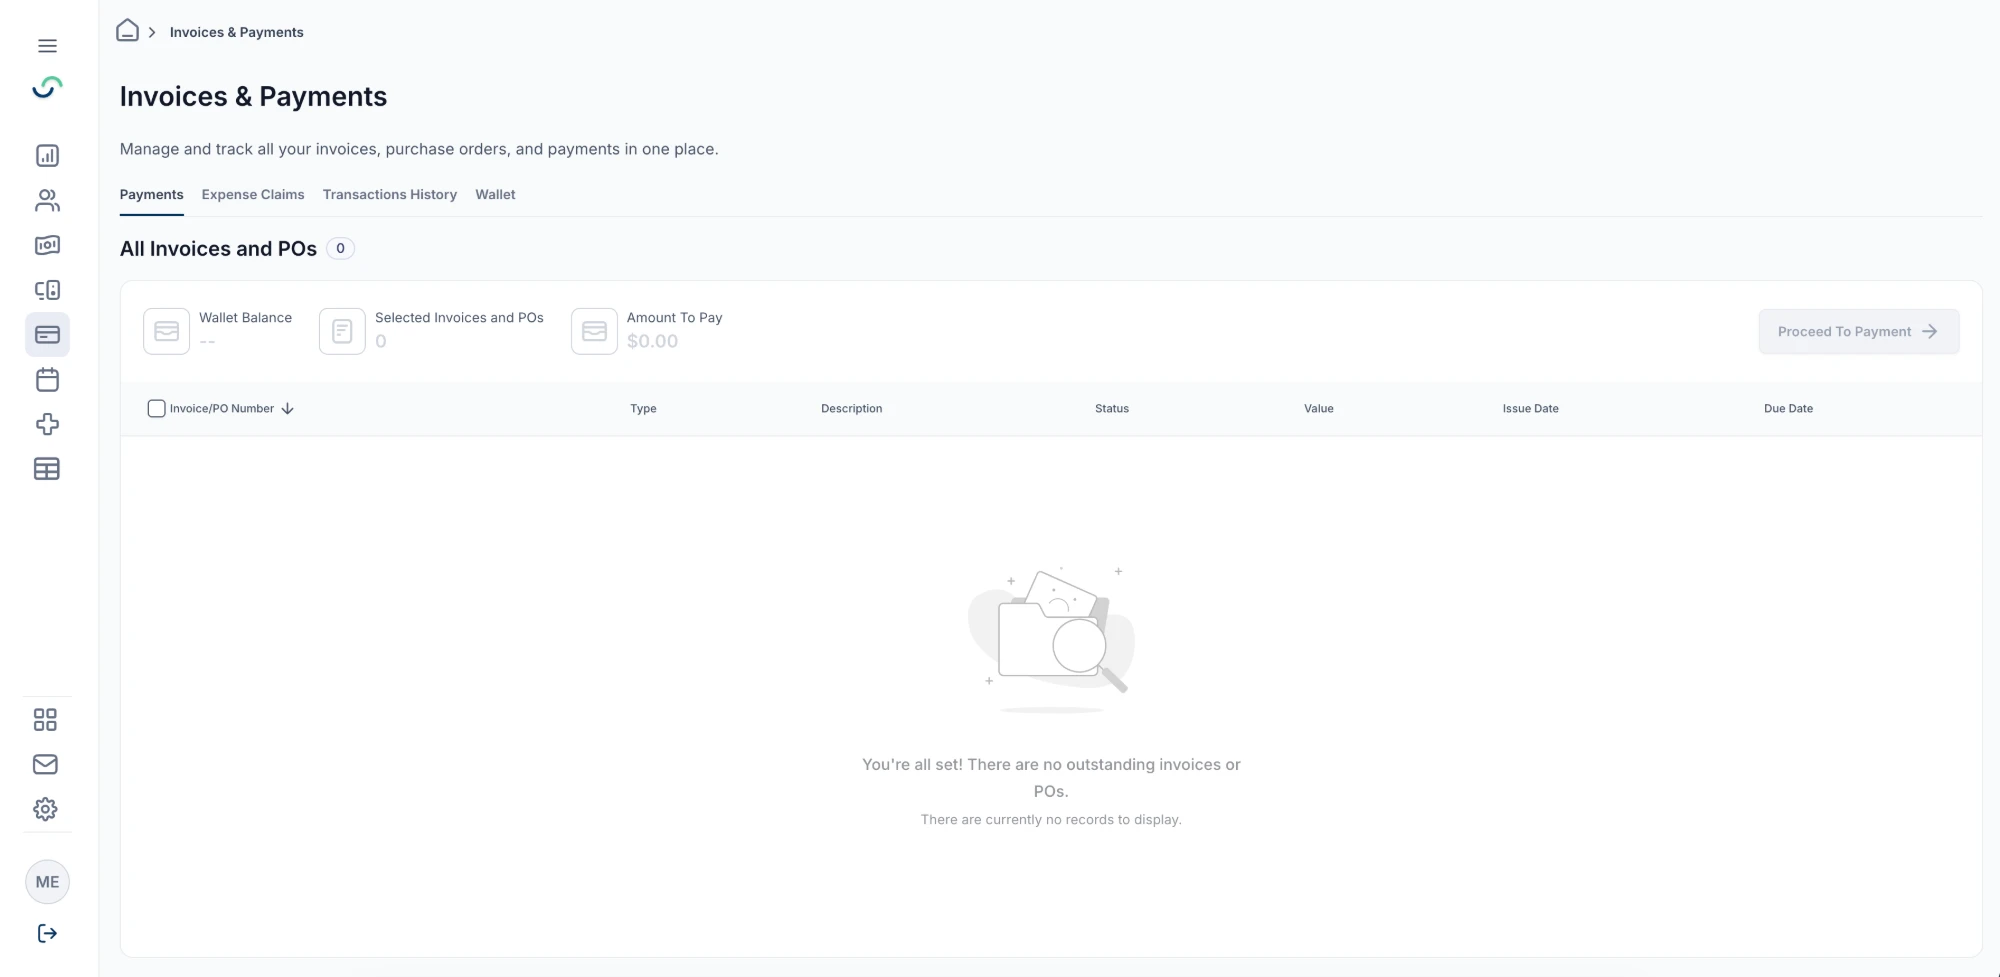
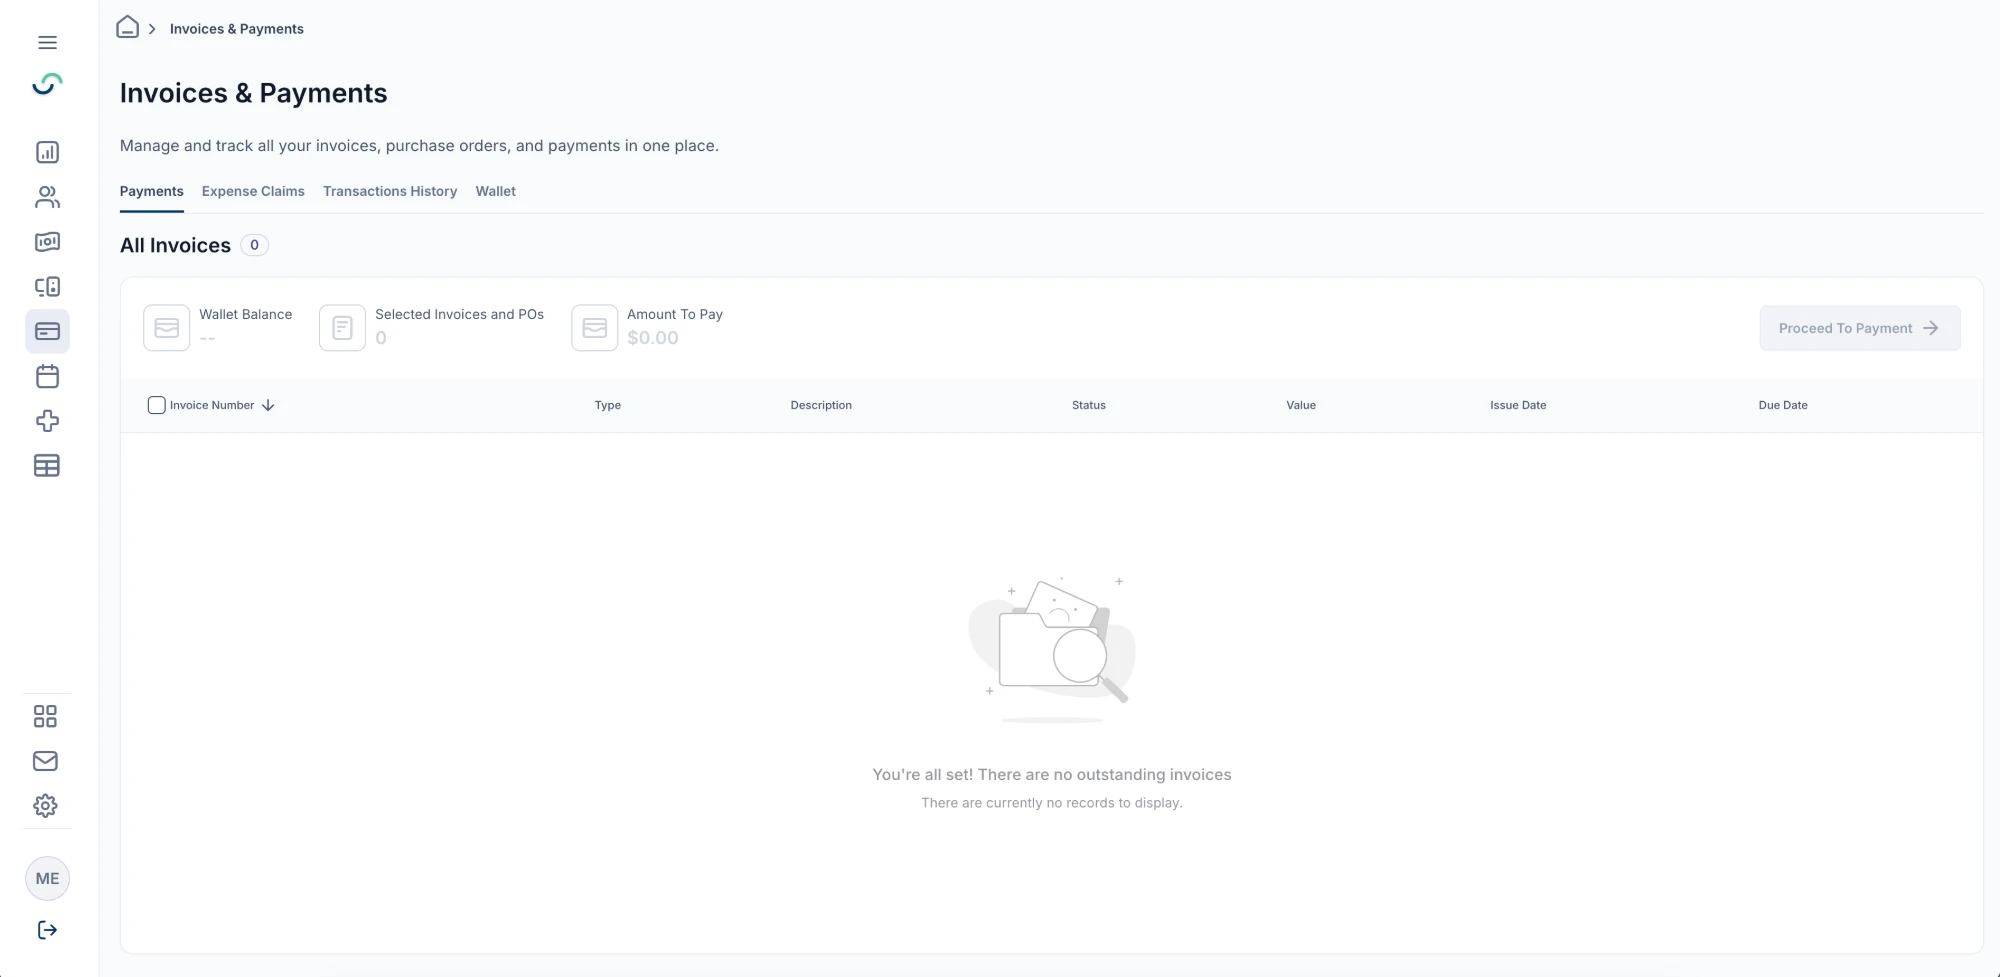
Redesign the testimonials as speech bubbles and use sharper screenshots
- Section title is now "What's It Like Working With Mariam?"
- Each quote is a bubble coming off the person's photo, in the style of
  Mariam's example: the ring around the photo is the bubble's colour, name
  and role sit beside it, emphasised words are bold italic, and the quotes
  alternate left and right
- Amany's photo is cropped from Mariam's example; Tarek gets an illustrated
  avatar; Randa keeps her initials until her photo can be added (the
  environment could not reach framerusercontent.com)
- Markup fixed: each quote is now a proper <figure> with its <figcaption>
- The role line wraps between company and title, never inside "Front-End"
- Case-study page screenshot and Challenge 1 screenshot replaced with
  Mariam's higher-resolution versions

Claude-Session: https://claude.ai/code/session_0171P49sYMETFoycgjWiB6Q9

diff --git a/index.html b/index.html
@@ -348,60 +348,64 @@
   <div class="shell">
     <header class="section__head" data-reveal>
       <p class="eyebrow"><span>02</span> In their words</p>
-      <h2 class="section__title">People who <br>shipped <em>with</em> me.</h2>
+      <h2 class="section__title">What’s It Like <br>Working With <em>Mariam?</em></h2>
       <p class="section__sub">Engineers and analysts I worked next to, day to day.</p>
     </header>
 
-    <ul class="words__grid">
-      <li class="quote quote--lime" data-reveal>
-        <svg class="quote__mark icon" aria-hidden="true"><use href="#i-quote"/></svg>
-        <blockquote>
-          <p>It's been a pleasure working with you. You are incredibly <b>flexible</b> and <b>open</b> to any
-          discussion, which made collaboration feel effortless. Your <b>depth</b> of knowledge, combined with
-          your <b>organized</b> thinking and <b>creative</b> approach, brought real value to the work we did together.</p>
-        </blockquote>
-        <figcaption class="quote__by">
-          <span class="quote__avatar" aria-hidden="true">AS</span>
-          <span>
-            <b>Amany Salah</b>
-            <small>Senior Front-End · @Cyshield</small>
-          </span>
-        </figcaption>
+    <ul class="words__list">
+      <li class="quote" data-reveal>
+        <figure>
+          <figcaption class="quote__by">
+            <span class="quote__avatar"><img src="assets/img/people/amany-salah.webp" alt="" width="176" height="176" loading="lazy" decoding="async"></span>
+            <span class="quote__who">
+              <b>Amany Salah</b>
+              <small><span>@Cyshield ·</span> <span>Senior Front-End</span></small>
+            </span>
+          </figcaption>
+          <blockquote class="quote__bubble">
+            <p>It’s been a pleasure working with you. You are incredibly <b>flexible</b> and <b>open</b> to any
+            discussion, which made collaboration feel effortless. Your <b>depth</b> of knowledge, combined with
+            your <b>organized</b> thinking and <b>creative</b> approach, brought real value to the work we did together.</p>
+          </blockquote>
+        </figure>
       </li>
 
-      <li class="quote" data-reveal data-reveal-delay="1">
-        <svg class="quote__mark icon" aria-hidden="true"><use href="#i-quote"/></svg>
-        <blockquote>
-          <p>I wanted to express my appreciation for your <b>diligent &amp; organized work</b>. You're a
-          detail-oriented &amp; creative person who consistently finds innovative solutions to problems.
-          Your time management skills are excellent, &amp; you assist me in completing tasks effectively.
-          Your cooperation and flexibility in dealing with the team make you a valuable member.
-          Thank you for your dedication &amp; commitment to your work.</p>
-        </blockquote>
-        <figcaption class="quote__by">
-          <span class="quote__avatar" aria-hidden="true">RM</span>
-          <span>
-            <b>Randa Mohammed</b>
-            <small>Business Analyst · @Bank Misr</small>
-          </span>
-        </figcaption>
+      <li class="quote quote--blue" data-reveal data-reveal-delay="1">
+        <figure>
+          <figcaption class="quote__by">
+            <!-- initials until there is a photo: swap for <img src="assets/img/people/randa-mohammed.webp" alt=""> -->
+            <span class="quote__avatar"><span class="quote__initials" aria-hidden="true">RM</span></span>
+            <span class="quote__who">
+              <b>Randa Mohammed</b>
+              <small><span>@Bank Misr ·</span> <span>Business Analyst</span></small>
+            </span>
+          </figcaption>
+          <blockquote class="quote__bubble">
+            <p>I wanted to express my appreciation for your <b>diligent &amp; organized work</b>. You’re a
+            detail-oriented &amp; creative person who consistently finds innovative solutions to problems.
+            Your time management skills are excellent, &amp; you assist me in completing tasks effectively.
+            Your cooperation and flexibility in dealing with the team make you a valuable member.
+            Thank you for your dedication &amp; commitment to your work.</p>
+          </blockquote>
+        </figure>
       </li>
 
       <li class="quote" data-reveal data-reveal-delay="2">
-        <svg class="quote__mark icon" aria-hidden="true"><use href="#i-quote"/></svg>
-        <blockquote>
-          <p>I had the pleasure of working with Mariam on several projects, and I can confidently say she is an
-          <b>exceptional team player</b> and a truly reliable person. Her positive energy and strong sense of
-          responsibility always stood out. She's the kind of person who is always ready to support others,
-          no matter how busy she is. What really makes Mariam special is her <b>storytelling</b>.</p>
-        </blockquote>
-        <figcaption class="quote__by">
-          <span class="quote__avatar" aria-hidden="true">T</span>
-          <span>
-            <b>Tarek</b>
-            <small>Senior Back-End · @Huawei</small>
-          </span>
-        </figcaption>
+        <figure>
+          <figcaption class="quote__by">
+            <span class="quote__avatar"><img src="assets/img/people/tarek.svg" alt="" width="74" height="74" loading="lazy" decoding="async"></span>
+            <span class="quote__who">
+              <b>Tarek</b>
+              <small><span>@Huawei ·</span> <span>Senior Back-End</span></small>
+            </span>
+          </figcaption>
+          <blockquote class="quote__bubble">
+            <p>I had the pleasure of working with Mariam on several projects, and I can confidently say she is an
+            <b>exceptional team player</b> and a truly reliable person. Her positive energy and strong sense of
+            responsibility always stood out. She’s the kind of person who is always ready to support others,
+            no matter how busy she is. What really makes Mariam special is her <b>storytelling</b>.</p>
+          </blockquote>
+        </figure>
       </li>
     </ul>
   </div>

diff --git a/assets/css/components.css b/assets/css/components.css
@@ -485,71 +485,97 @@
    Testimonials
    ========================================================================== */
 
-.words__grid {
+/* this title runs to two long lines */
+.words .section__head { max-width: 46rem; }
+
+/* Each quote is a speech bubble coming off the person's photo: the ring
+   around the photo is the bubble's own colour, so the two read as one shape.
+   They alternate left and right, like a conversation. */
+.words__list {
   list-style: none;
   padding: 0;
   display: grid;
-  grid-template-columns: repeat(auto-fit, minmax(19rem, 1fr));
-  gap: var(--s-5);
-  align-items: start;
+  gap: clamp(2rem, 5vw, 3.5rem);
 }
 
 .quote {
-  position: relative;
-  padding: var(--s-6) var(--s-5) var(--s-5);
-  background: var(--paper-raised);
-  border: 1px solid var(--line);
-  border-radius: var(--r-lg);
-  box-shadow: var(--sh-1);
+  --ring: clamp(5.25rem, 4rem + 4vw, 7rem);   /* the circle around the photo */
+  --bubble: var(--sage);
+  width: 100%;
+  max-width: 52rem;
 }
-.quote--lime { background: var(--lime-wash); border-color: var(--lime-deep); }
+.quote:nth-child(even) { justify-self: end; }
+.quote--blue { --bubble: var(--blue-wash); }
 
-.quote__mark {
-  width: 1.75rem; height: 1.75rem;
-  color: var(--blue);
-  opacity: .28;
-  margin-bottom: var(--s-3);
-}
-.quote--lime .quote__mark { color: var(--ink); opacity: .22; }
+.quote figure { position: relative; padding-top: calc(var(--ring) * 0.56); }
 
-.quote blockquote p {
-  font-size: var(--t-body);
-  color: var(--ink-soft);
-}
-.quote b { color: var(--ink); font-weight: 700; }
+.quote__by { display: contents; }
 
-.quote__by {
-  display: flex;
-  align-items: center;
-  gap: var(--s-3);
-  margin-top: var(--s-5);
-  padding-top: var(--s-4);
-  border-top: 1px solid var(--line);
-}
-.quote--lime .quote__by { border-top-color: color-mix(in srgb, var(--lime-deep) 55%, transparent); }
-.quote__by b { display: block; font-size: var(--t-small); }
-.quote__by small {
-  display: block;
-  font-family: var(--font-mono);
-  font-size: 0.6875rem;
-  font-weight: 500;
-  letter-spacing: 0.06em;
-  text-transform: uppercase;
-  color: var(--muted);
-}
 .quote__avatar {
+  position: absolute;
+  top: 0; left: 0;
+  z-index: 1;
   display: grid;
   place-items: center;
-  width: 2.5rem; height: 2.5rem;
-  flex: none;
+  width: var(--ring);
+  height: var(--ring);
+  background: var(--bubble);
+  border-radius: 50%;
+}
+.quote__avatar img,
+.quote__initials {
+  width: 80%;
+  height: 80%;
+  border-radius: 50%;
+  object-fit: cover;
+}
+.quote__initials {
+  display: grid;
+  place-items: center;
   background: var(--blue);
   color: #fff;
-  font-size: var(--t-meta);
+  font-size: calc(var(--ring) * 0.22);
   font-weight: 800;
-  letter-spacing: 0.04em;
-  border-radius: 10px;
+  letter-spacing: 0.02em;
 }
-.quote--lime .quote__avatar { background: var(--ink); }
+
+/* name and role sit beside the photo, above the bubble */
+.quote__who {
+  position: absolute;
+  top: calc(var(--ring) * 0.06);
+  left: calc(var(--ring) + 0.9rem);
+  right: 0;
+  display: grid;
+  gap: 0.15rem;
+  line-height: 1.25;
+}
+.quote__who b { font-size: var(--t-body); font-weight: 800; color: var(--ink); }
+.quote__who small { font-size: var(--t-small); font-weight: 700; color: var(--ink-soft); }
+.quote__who small span { white-space: nowrap; }   /* wrap between company and title, never inside "Front-End" */
+
+.quote__bubble {
+  margin: 0 0 0 calc(var(--ring) * 0.27);
+  /* text starts level with the name, clear of the photo */
+  padding: calc(var(--ring) * 0.44 + 0.5rem) clamp(1.25rem, 3.5vw, 2.5rem)
+           clamp(1.5rem, 3.5vw, 2.25rem) calc(var(--ring) * 0.73 + 0.9rem);
+  background: var(--bubble);
+  border-radius: var(--r-xl);
+}
+.quote__bubble p {
+  font-size: clamp(1.0625rem, 0.95rem + 0.55vw, 1.375rem);
+  line-height: 1.5;
+  letter-spacing: -0.01em;
+  color: var(--ink);
+}
+.quote__bubble b { font-weight: 800; font-style: italic; }
+
+/* narrow: the text drops below the photo and takes the full width */
+@media (max-width: 560px) {
+  .quote__bubble {
+    margin-left: 0;
+    padding: calc(var(--ring) * 0.44 + 1.1rem) 1.25rem 1.5rem;
+  }
+}
 
 /* ==========================================================================
    Chips

diff --git a/assets/js/data.js b/assets/js/data.js
@@ -55,7 +55,7 @@ window.WORK = [
     width: 2000, height: 977,
     alt: 'The Invoices & Payments page: Payments, Expense Claims, Transactions History ' +
          'and Wallet tabs, with Wallet Balance, Selected Invoices and POs, Amount To Pay ' +
-         'and the table of all invoices and POs.',
+         'and the table of all invoices.',
     caption: 'Public UI preview only—no real data included (NDA).'
   },
 
@@ -103,7 +103,7 @@ window.WORK = [
         ],
         image: {
           src: 'assets/img/work/invoices-ui-preview.webp',
-          width: 2000, height: 394,
+          width: 2000, height: 741,
           alt: 'The Payments tab: Wallet Balance, Selected Invoices and POs and Amount To ' +
                'Pay above the invoice table, with a Proceed To Payment button.',
           caption: 'Public UI preview only—no real data included (NDA).'

diff --git a/tools/contrast.js b/tools/contrast.js
@@ -54,6 +54,8 @@ const PAIRS = [
   ['ink-soft',     'lime-wash',    4.5, 'paragraphs in the How panel'],
   ['muted',        'lime-wash',    4.5, 'screenshot caption in the How panel'],
   ['ink-soft',     'wire',         4.5, 'text on a wireframe bar'],
+  ['ink',          'sage',         4.5, 'testimonial text in a bubble'],
+  ['ink',          'blue-wash',    4.5, 'testimonial text in a blue bubble'],
   ['ink',          'paper-raised', 4.5, 'card text'],
   ['muted',        'paper-raised', 4.5, 'card meta'],
   ['ink',          'paper-sunk',   4.5, 'tag text'],

diff --git a/assets/css/tokens.css b/assets/css/tokens.css
@@ -33,6 +33,8 @@
   --lime:       #D9F24B;
   --lime-deep:  #C2DD2B;
   --lime-wash:  #F4FBD4;
+  --sage:       #EDF1DA;     /* testimonial bubbles — Mariam's #F1F5E3, one  */
+                             /* step deeper so the ring shows on --paper     */
 
   /* --line and --line-strong are decorative rules only: page hairlines, the
      timeline rail, the string between the pin cards. WCAG 1.4.11 exempts pure

diff --git a/README.md b/README.md
@@ -314,6 +314,9 @@ assets/
   img/                   photography + og-cover.png (the social card)
     art/                 pictures for the challenge diagrams — swap freely
     work/                screenshots used inside case studies
+    people/              testimonial photos. Randa's is still initials: save
+                         her photo as randa-mohammed.webp here and follow the
+                         comment next to "RM" in index.html
   cv/                    the PDF the Download CV button serves
 robots.txt               crawl rules + sitemap pointer
 sitemap.xml              the one URL, for Search Console
